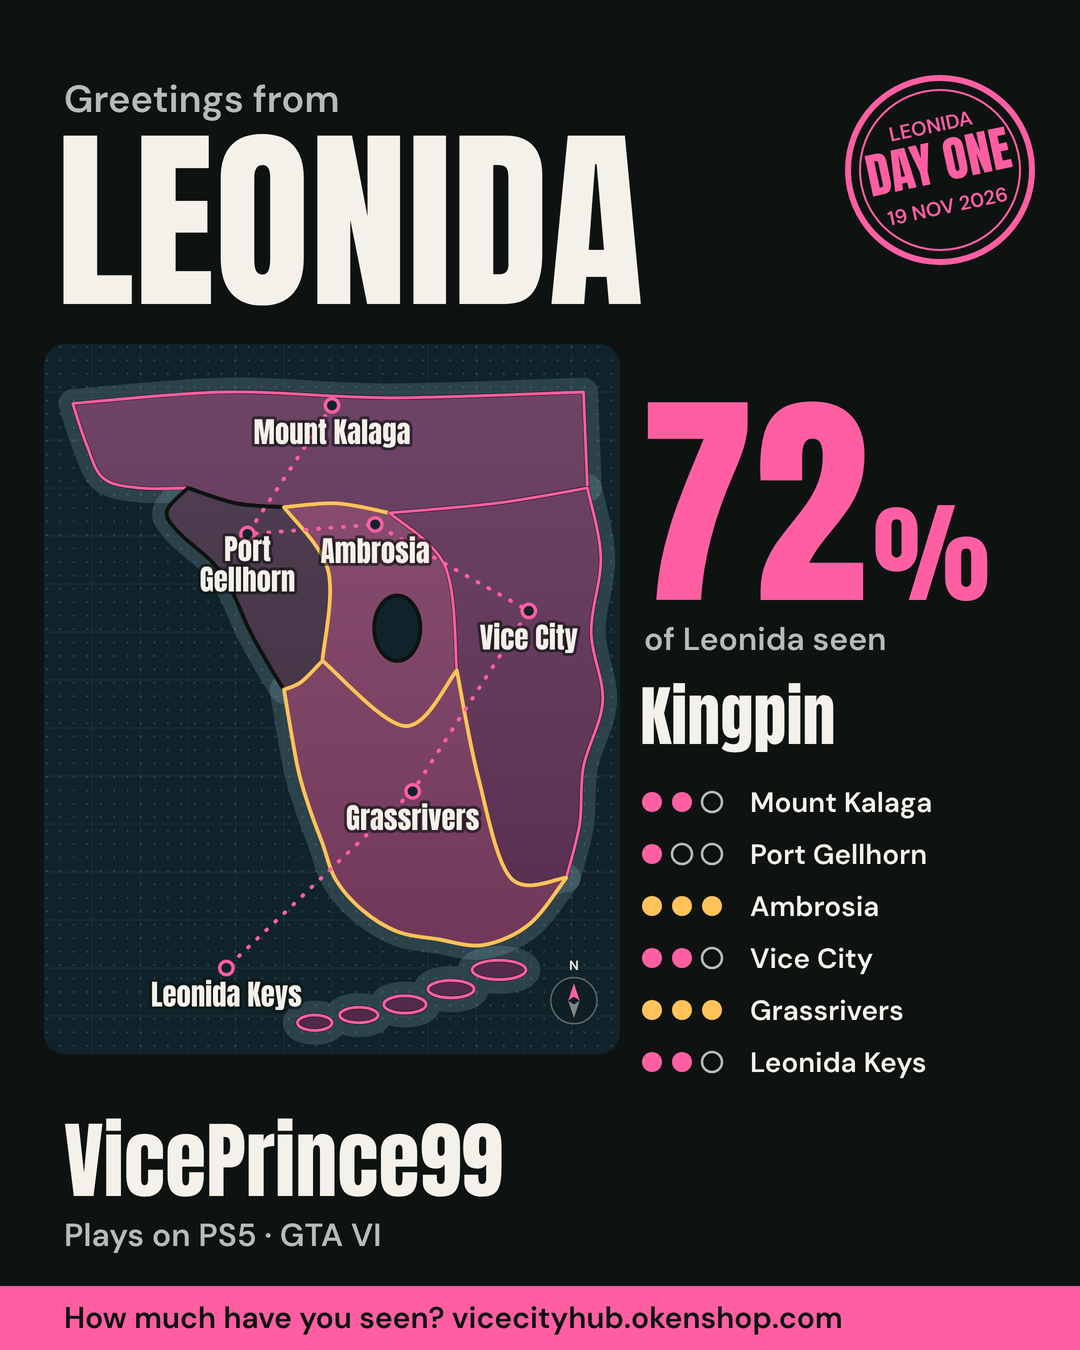
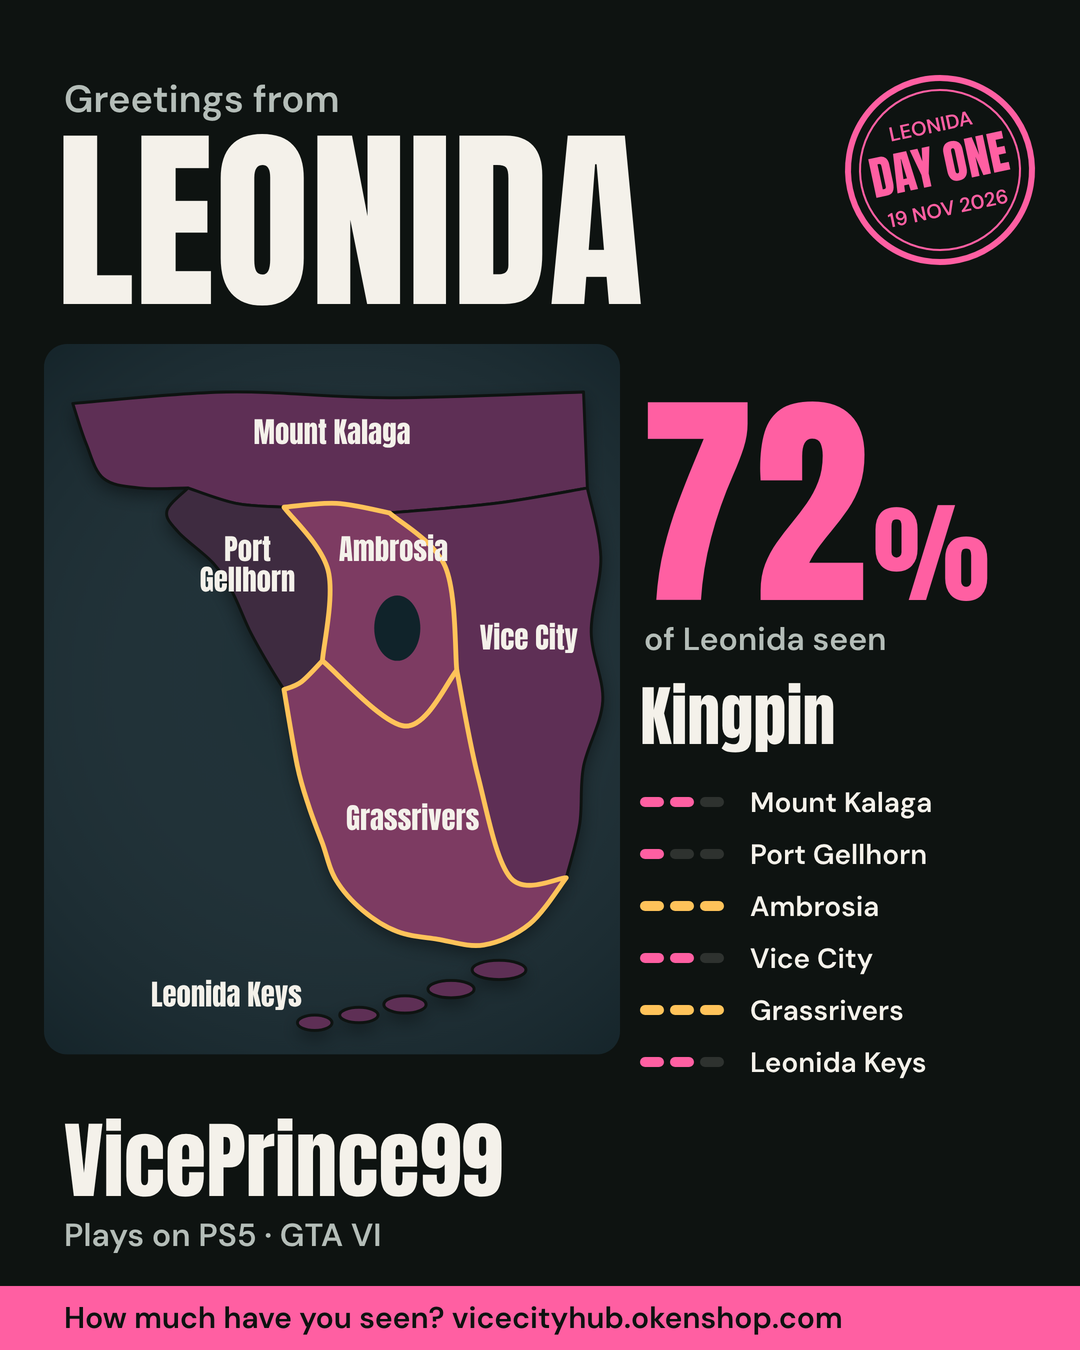
Calm, high-end card maps: no texture, one shadow, colour means progress
- Card maps drop the grid, hatching, route dots, compass and outlined
  labels. Flat land sits on a calm sea with a single soft shadow;
  region colour steps with progress, and the only coloured edges are
  gold for 100% (or, on a Blend, who explored the region). Unexplored
  labels are muted, explored ones bright.
- The card's region list uses three clean bars per region instead of
  eighteen small rings
- Ambrosia's label sits clear of the Port Gellhorn border
- README images and the link-preview image regenerated, with more room
  around the headline

Claude-Session: https://claude.ai/code/session_01V1vhkWMqwTY81FT6V3Bd8t

diff --git a/site/hub/hub.js b/site/hub/hub.js
@@ -56,7 +56,7 @@
       d: outline(['kWest', 'kNorth', 'kEast', 'kV', 'kA', 'kG']) },
     { id: 'gellhorn', name: 'Port Gellhorn', full: 'Port Gellhorn', label: [212, 238], two: true,
       d: outline(['-kG', 'gA', 'gGr', 'gCoast']) },
-    { id: 'ambrosia', name: 'Ambrosia', full: 'Ambrosia', label: [345, 228],
+    { id: 'ambrosia', name: 'Ambrosia', full: 'Ambrosia', label: [364, 226],
       d: outline(['-kA', 'aV', 'aGr', '-gA']) },
     { id: 'vice', name: 'Vice City', full: 'Vice City', label: [505, 318],
       d: outline(['-kV', 'vCoast', '-vGr', '-aV']) },
@@ -734,11 +734,11 @@
 
     var ty = 812;
     REGIONS.forEach(function (r, i) {
+      // three short bars per region: passed, explored, 100% (gold when finished)
       for (var k = 0; k < 3; k++) {
-        ctx.beginPath();
-        ctx.arc(cx + 12 + k * 30, ty - 10, 10, 0, Math.PI * 2);
-        if (k < levels[i]) { ctx.fillStyle = levels[i] === 3 ? T.done : T.accent; ctx.fill(); }
-        else { ctx.strokeStyle = T.ink2; ctx.lineWidth = 2.5; ctx.stroke(); }
+        roundRect(ctx, cx + k * 30, ty - 15, 24, 10, 5);
+        ctx.fillStyle = k < levels[i] ? (levels[i] === 3 ? T.done : T.accent) : T.line;
+        ctx.fill();
       }
       ctx.fillStyle = levels[i] ? T.ink : T.ink2;
       ctx.font = '600 28px "DM Sans", sans-serif';
@@ -770,77 +770,51 @@
   // The map as drawn on both cards, at (x, y) and scale sc of its 600 x 740 layout.
   // blend: { mine: [...], theirs: [...] } paints who explored each region instead of one player's levels.
   function drawMap(ctx, T, x, y, sc, blend) {
+    // The card map is deliberately quiet: flat land on a calm sea, one soft shadow for depth, and colour that only
+    // ever means progress. No grid, hatching, route dots or compass: every pixel left is one that survives
+    // Instagram, X and WhatsApp compression and reads at thumbnail size.
     var LV = blend ? blend.mine.map(function (m, i) { return Math.max(m, blend.theirs[i]); }) : levels;
-    // The card map uses the same layers as the page map: sea, stipple, grid, coastal shelf, fog of war, route, compass.
+    var tone = function (i) { return blend ? (blend.mine[i] && blend.theirs[i] ? 3 : LV[i] ? 2 : 0) : LV[i]; };
     ctx.save();
     ctx.translate(x, y); ctx.scale(sc, sc);
-    roundRect(ctx, 0, 0, 600, 740, 22); ctx.fillStyle = T.sea; ctx.fill();
-    ctx.save(); roundRect(ctx, 0, 0, 600, 740, 22); ctx.clip();
-    // The card is built to survive social-media compression: no fine dots or hairlines, only shapes and bold lines
-    // that JPEG re-encoding on Instagram, X or WhatsApp can't smear. A soft sea gradient and a wide grid give depth.
-    var sea = ctx.createRadialGradient(300, 300, 40, 300, 360, 520);
-    sea.addColorStop(0, 'rgba(143,179,191,.10)'); sea.addColorStop(1, 'rgba(0,0,0,.18)');
+    roundRect(ctx, 0, 0, 600, 740, 24); ctx.fillStyle = T.sea; ctx.fill();
+    ctx.save(); roundRect(ctx, 0, 0, 600, 740, 24); ctx.clip();
+    var sea = ctx.createRadialGradient(330, 330, 60, 300, 380, 560);
+    sea.addColorStop(0, 'rgba(255,255,255,.06)'); sea.addColorStop(1, 'rgba(0,0,0,.22)');
     ctx.fillStyle = sea; ctx.fillRect(0, 0, 600, 740);
-    ctx.strokeStyle = T.grid; ctx.lineWidth = 2;
-    for (var x = 100; x < 600; x += 100) { ctx.beginPath(); ctx.moveTo(x, 0); ctx.lineTo(x, 740); ctx.stroke(); }
-    for (var y = 100; y < 740; y += 100) { ctx.beginPath(); ctx.moveTo(0, y); ctx.lineTo(600, y); ctx.stroke(); }
-    REGIONS.forEach(function (r) { // coastal shelf
-      var sp = new Path2D(r.d);
-      ctx.fillStyle = 'rgba(143,179,191,.10)'; ctx.fill(sp);
-      ctx.strokeStyle = 'rgba(143,179,191,.22)'; ctx.lineWidth = 30; ctx.lineJoin = 'round'; ctx.stroke(sp);
-    });
+    // one soft shadow under the whole state
+    ctx.save();
+    ctx.shadowColor = 'rgba(0,0,0,.45)'; ctx.shadowBlur = 36; ctx.shadowOffsetY = 14;
+    ctx.fillStyle = T.fill[0];
+    REGIONS.forEach(function (r) { ctx.fill(new Path2D(r.d)); });
     ctx.restore();
-    // Unexplored regions: wide, bold diagonal bands (low detail, so they stay clean after compression).
-    var fog = patternTile(26, function (p) { p.strokeStyle = 'rgba(244,241,234,.11)'; p.lineWidth = 6; p.lineCap = 'square'; [-26, 0, 26].forEach(function (o) { p.beginPath(); p.moveTo(o - 2, 28); p.lineTo(o + 28, -2); p.stroke(); }); });
+    ctx.restore();
     REGIONS.forEach(function (r, i) {
       var path = new Path2D(r.d);
-      ctx.fillStyle = T.fill[blend ? (blend.mine[i] && blend.theirs[i] ? 3 : LV[i] ? 2 : 0) : LV[i]]; ctx.fill(path);
-      if (LV[i]) { var sh = ctx.createLinearGradient(0, 40, 0, 720); sh.addColorStop(0, 'rgba(255,255,255,.10)'); sh.addColorStop(1, 'rgba(0,0,0,.14)'); ctx.fillStyle = sh; ctx.fill(path); }
-      if (!LV[i] && fog) { ctx.fillStyle = fog; ctx.fill(path); }
-      ctx.strokeStyle = T.edge; ctx.lineWidth = 4; ctx.lineJoin = 'round'; ctx.stroke(path);
-      if (blend) {
-        // Only you: your accent. Only them: gold. Both of you: white.
-        var me = blend.mine[i] > 0, them = blend.theirs[i] > 0;
-        if (me || them) { ctx.strokeStyle = me && them ? T.ink : me ? T.accent : T.done; ctx.lineWidth = 4; ctx.stroke(path); }
-      } else {
-        if (LV[i] === 2) { ctx.strokeStyle = T.accent; ctx.lineWidth = 3; ctx.stroke(path); }
-        if (LV[i] === 3) { ctx.strokeStyle = T.done; ctx.lineWidth = 4; ctx.stroke(path); }
-      }
+      ctx.fillStyle = T.fill[tone(i)]; ctx.fill(path);
+      ctx.strokeStyle = T.edge; ctx.lineWidth = 3; ctx.lineJoin = 'round'; ctx.stroke(path);
+    });
+    // Edges carry one meaning each: gold for 100% on a map card; on a Blend, who explored the region.
+    REGIONS.forEach(function (r, i) {
+      var path = new Path2D(r.d), col = null;
+      if (blend) { var me = blend.mine[i] > 0, them = blend.theirs[i] > 0; if (me || them) col = me && them ? T.ink : me ? T.accent : T.done; }
+      else if (LV[i] === 3) col = T.done;
+      if (col) { ctx.strokeStyle = col; ctx.lineWidth = 5; ctx.lineJoin = 'round'; ctx.stroke(path); }
     });
     var lake = new Path2D(LAKE);
-    ctx.fillStyle = T.lake; ctx.fill(lake); ctx.strokeStyle = T.edge; ctx.lineWidth = 4; ctx.stroke(lake);
-    // your route
-    var pts = [];
-    if (!blend) levels.forEach(function (l, i) { if (l) pts.push(anchorOf(REGIONS[i])); });
-    if (pts.length > 1) {
-      ctx.save(); ctx.strokeStyle = T.accent; ctx.lineWidth = 4; ctx.lineCap = 'round'; ctx.setLineDash([1, 12]);
-      ctx.beginPath(); pts.forEach(function (p, k) { k ? ctx.lineTo(p[0], p[1]) : ctx.moveTo(p[0], p[1]); }); ctx.stroke(); ctx.restore();
-    }
-    pts.forEach(function (p) { ctx.beginPath(); ctx.arc(p[0], p[1], 7, 0, Math.PI * 2); ctx.fillStyle = T.sea; ctx.fill(); ctx.strokeStyle = T.accent; ctx.lineWidth = 3.5; ctx.stroke(); });
-    // labels above the route, outlined so they read at feed size
-    ctx.textAlign = 'center'; ctx.lineJoin = 'round';
+    ctx.fillStyle = T.sea; ctx.fill(lake);
+    ctx.textAlign = 'center';
     REGIONS.forEach(function (r, i) {
-      var dark = (blend ? (blend.mine[i] && blend.theirs[i] ? 3 : LV[i] ? 2 : 0) : LV[i]) >= T.darkFrom && r.id !== 'keys';
+      var t = tone(i), dark = t >= T.darkFrom && r.id !== 'keys';
       ctx.font = '400 30px Anton, sans-serif';
-      ctx.lineWidth = 6; ctx.strokeStyle = dark ? 'rgba(255,255,255,.35)' : 'rgba(14,19,17,.6)';
-      ctx.fillStyle = dark ? T.onFull : T.ink;
+      ctx.fillStyle = dark ? T.onFull : t ? T.ink : T.ink2;
       var lines = r.two ? [r.name.split(' ')[0], r.name.split(' ').slice(1).join(' ')] : [r.name];
-      lines.forEach(function (txt, k) {
-        var ly = r.label[1] + (r.two ? (k ? 20 : -12) : 0);
-        ctx.strokeText(txt, r.label[0], ly); ctx.fillText(txt, r.label[0], ly);
-      });
+      lines.forEach(function (txt, k) { ctx.fillText(txt, r.label[0], r.label[1] + (r.two ? (k ? 20 : -12) : 0)); });
     });
-    // compass
-    ctx.save(); ctx.translate(552, 684);
-    ctx.beginPath(); ctx.arc(0, 0, 24, 0, Math.PI * 2); ctx.fillStyle = 'rgba(15,31,37,.85)'; ctx.fill();
-    ctx.strokeStyle = 'rgba(244,241,234,.35)'; ctx.lineWidth = 1.5; ctx.stroke();
-    ctx.fillStyle = T.accent; ctx.beginPath(); ctx.moveTo(0, -18); ctx.lineTo(6, 0); ctx.lineTo(0, -4); ctx.lineTo(-6, 0); ctx.closePath(); ctx.fill();
-    ctx.fillStyle = 'rgba(244,241,234,.5)'; ctx.beginPath(); ctx.moveTo(0, 18); ctx.lineTo(6, 0); ctx.lineTo(0, 4); ctx.lineTo(-6, 0); ctx.closePath(); ctx.fill();
-    ctx.fillStyle = T.ink; ctx.font = '600 18px "DM Sans", sans-serif'; ctx.fillText('N', 0, -34);
-    ctx.restore();
     ctx.restore();
     ctx.textAlign = 'left';
   }
+
 
   // Leonida Wrapped: the whole launch run on one card. Same drawing, same device, nothing uploaded.
   function longestStreak() {
@@ -974,18 +948,6 @@
     fitText(ctx, dt, 120, 20, '600 {s}px "DM Sans", sans-serif'); ctx.fillText(dt, 0, 46);
     ctx.font = '600 20px "DM Sans", sans-serif'; ctx.fillText(tr('LEONIDA'), 0, -38);
     ctx.restore();
-  }
-
-  function patternTile(size, paint) {
-    try {
-      // Tiles are painted at the card's pixel density, then scaled back so they stay crisp.
-      var k = $('card-canvas').width / 1080;
-      var c = document.createElement('canvas'); c.width = size * k; c.height = size * k;
-      var g = c.getContext('2d'); g.scale(k, k); paint(g);
-      var pat = $('card-canvas').getContext('2d').createPattern(c, 'repeat');
-      if (pat && pat.setTransform && window.DOMMatrix) pat.setTransform(new DOMMatrix([1 / k, 0, 0, 1 / k, 0, 0]));
-      return pat;
-    } catch (e) { return null; }
   }
 
   function roundRect(ctx, x, y, w, h, r) {
